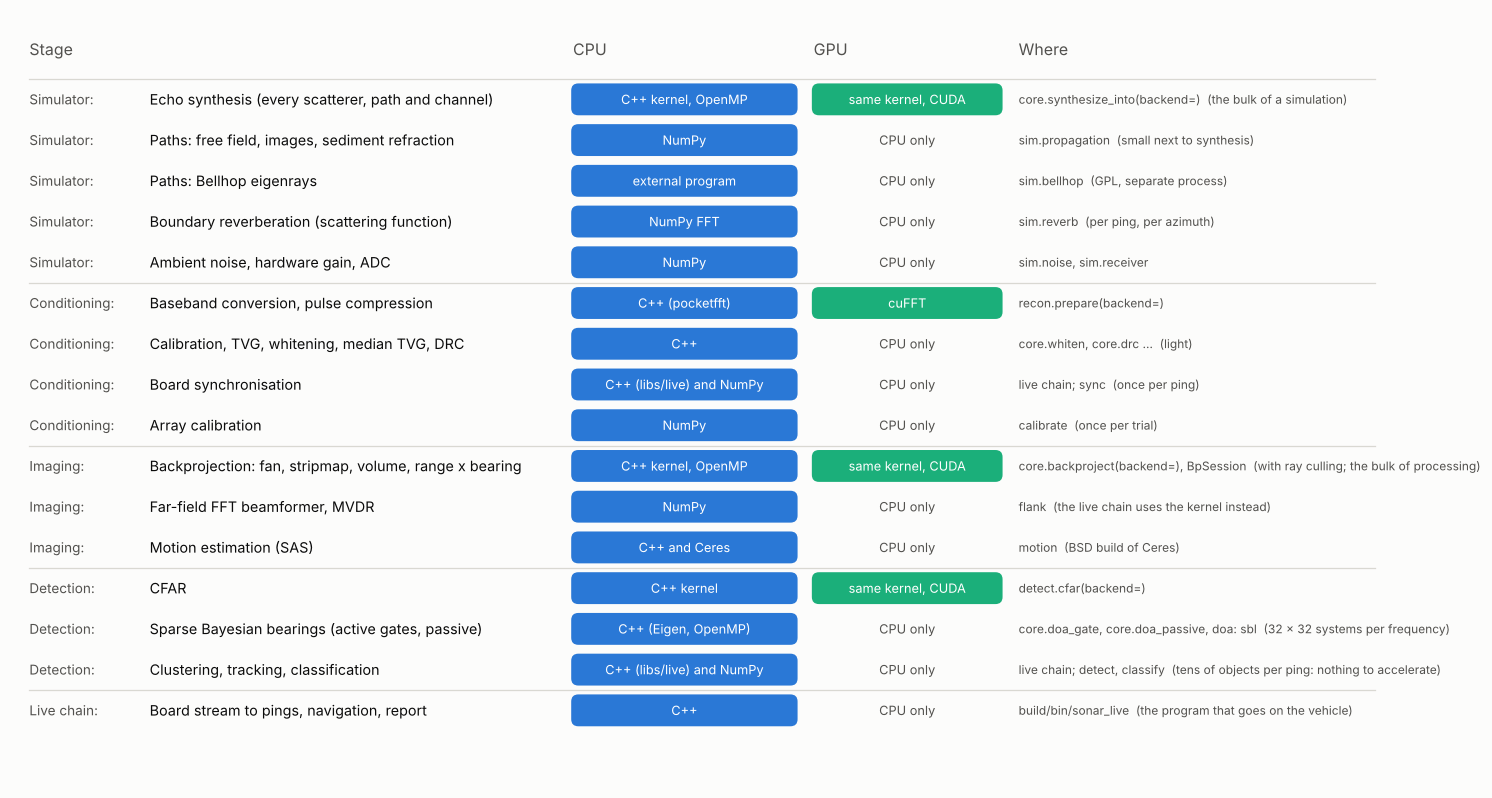
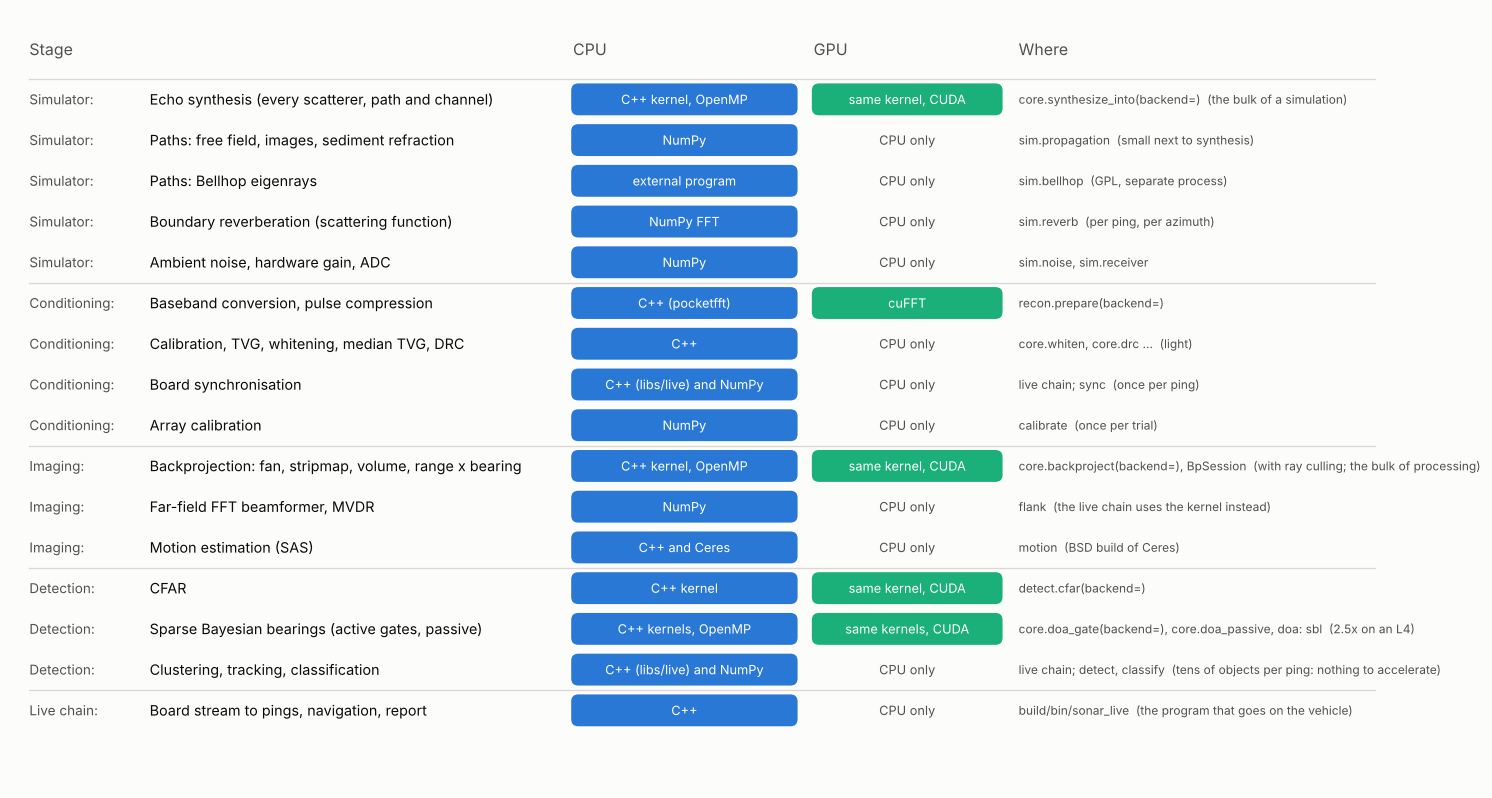
Results on an L4 and against truth; decisions D-59, D-60; time fields in the program's output paths; example service unit
Claude-Session: https://claude.ai/code/session_01QhYtHta4HR3WascrfVLbGv

Changed region(s): [[0.5241, 0.7519, 0.6783, 0.812], [0.7399, 0.782, 0.9558, 0.812], [0.4316, 0.782, 0.4933, 0.812]]

diff --git a/apps/sonar_live.cpp b/apps/sonar_live.cpp
@@ -28,6 +28,7 @@
 #include <mutex>
 #include <thread>
 #include <cstdlib>
+#include <ctime>
 #include <fstream>
 #include <iostream>
 #include <map>
@@ -42,6 +43,19 @@
 #include "sonar/live/udp_source.hpp"
 
 using namespace sonar;  // NOLINT(google-build-using-namespace)
+
+namespace {
+// strftime fields in an output path (%Y%m%d_%H%M%S), filled with the start time (UTC), so that
+// a restart never writes over an earlier run's recording.
+std::string stamped(const std::string& path) {
+  if (path.find('%') == std::string::npos) return path;
+  const std::time_t now = std::time(nullptr);
+  std::tm utc{};
+  gmtime_r(&now, &utc);
+  char out[1024];
+  return std::strftime(out, sizeof(out), path.c_str(), &utc) > 0 ? std::string(out) : path;
+}
+}  // namespace
 
 int main(int argc, char** argv) {
   try {
@@ -66,8 +80,8 @@ int main(int argc, char** argv) {
       else if (a == "--template") template_path = next();
       else if (a == "--listen") listen = true;
       else if (a == "--nav-port") nav_port = std::atoi(next().c_str());
-      else if (a == "--report") report_path = next();
-      else if (a == "--recording") recording_path = next();
+      else if (a == "--report") report_path = stamped(next());
+      else if (a == "--recording") recording_path = stamped(next());
       else if (a == "--report-udp") {
         const std::string hp = next();
         report_host = hp.substr(0, hp.find(':'));

diff --git a/tools/architecture_diagrams.py b/tools/architecture_diagrams.py
@@ -40,8 +40,8 @@ STAGES = [
     ("Imaging", "Far-field FFT beamformer, MVDR", "NumPy", None, "flank", "the live chain uses the kernel instead"),
     ("Imaging", "Motion estimation (SAS)", "C++ and Ceres", None, "motion", "BSD build of Ceres"),
     ("Detection", "CFAR", "C++ kernel", "same kernel, CUDA", "detect.cfar(backend=)", ""),
-    ("Detection", "Sparse Bayesian bearings (active gates, passive)", "C++ (Eigen, OpenMP)", None,
-     "core.doa_gate, core.doa_passive, doa: sbl", "32 x 32 systems per frequency"),
+    ("Detection", "Sparse Bayesian bearings (active gates, passive)", "C++ kernels, OpenMP", "same kernels, CUDA",
+     "core.doa_gate(backend=), core.doa_passive, doa: sbl", "2.5x on an L4"),
     ("Detection", "Clustering, tracking, classification", "C++ (libs/live) and NumPy", None, "live chain; detect, classify",
      "tens of objects per ping: nothing to accelerate"),
     ("Live chain", "Board stream to pings, navigation, report", "C++", None, "build/bin/sonar_live",

diff --git a/tests/python/test_live_cpp.py b/tests/python/test_live_cpp.py
@@ -1,6 +1,7 @@
 """The C++ live library against the Python stages it replaces, and the standalone program."""
 
 import json
+import time
 import pathlib
 import subprocess
 
@@ -285,8 +286,10 @@ def test_exported_template_and_command_run_the_program(pings, tmp_path):
         w.write(r)
     w.close()
     options = [c for c in command if "=" in c]
-    out = subprocess.run([str(EXE), "--replay", str(tmp_path / "pings.h5"), *options], capture_output=True, text=True, timeout=300)
+    out = subprocess.run([str(EXE), "--replay", str(tmp_path / "pings.h5"), "--recording", str(tmp_path / "run_%Y.h5"), *options],
+                         capture_output=True, text=True, timeout=300)
     assert out.returncode == 0, out.stderr
+    assert (tmp_path / f"run_{time.gmtime().tm_year}.h5").exists()          # strftime fields in output paths are filled
     with LiveChain(CHAIN) as chain:
         want = chain.run(copies(pings))
     got = [json.loads(line) for line in out.stdout.splitlines()]

diff --git a/tools/sonar_live.py b/tools/sonar_live.py
@@ -61,9 +61,9 @@ def export_template(cfg: dict, path: str) -> str:
     if (cfg.get("nav") or {}).get("port"):
         cmd += ["--nav-port", str(cfg["nav"]["port"])]
     if out.get("recording"):
-        cmd += ["--recording", time.strftime(out["recording"])]
+        cmd += ["--recording", out["recording"]]               # the program fills strftime fields itself
     if out.get("report"):
-        cmd += ["--report", time.strftime(out["report"])]
+        cmd += ["--report", out["report"]]
     if out.get("report_udp"):
         cmd += ["--report-udp", f"{out['report_udp'][0]}:{out['report_udp'][1]}"]
     cmd += [f"{k}={v:.10g}" if isinstance(v, float) else f"{k}={v}" for k, v in o.items()]

diff --git a/tests/python/test_architecture.py b/tests/python/test_architecture.py
@@ -17,7 +17,8 @@ _spec.loader.exec_module(arch)
 
 def test_stages_listed_with_a_gpu_implementation_take_a_backend():
     with_cuda = {stage for _, stage, _, cuda, _, _ in arch.STAGES if cuda}
-    assert len(with_cuda) == 4
+    assert len(with_cuda) == 5
+    assert "backend" in gs.core.doa_gate.__doc__                                   # sparse Bayesian bearings
     assert "backend" in inspect.signature(recon.prepare).parameters                # conditioning
     assert "backend" in inspect.signature(detect.cfar).parameters                  # CFAR
     assert "backend" in gs.core.backproject.__doc__ and "backend" in gs.core.synthesize_into.__doc__

diff --git a/docs/RESULTS.md b/docs/RESULTS.md
@@ -712,6 +712,9 @@ cores.
 | `popoto_12km`, six pings: detections per ping, track classes and ranges | identical in both chains (5, 7, 10, 11, 14, 7 detections; ten tracks) |
 | `popoto_12km`, processing per ping | C++ 0.42–0.51 s, Python 0.51–0.55 s (the kernels are shared; the ping interval is 19.9 s) |
 | The standalone program over UDP with navigation datagrams | all pings assembled, ownship position from navigation, mover and static tracks |
+| `sonar_live --listen`: an untriggered stream of real samples over UDP, two noise sources | every stretch recorded; both sources within 0.6° in at least 80% of frames |
+| The Holoscan application of C++ operators (`sonar_live_holoscan`, Holoscan 4.6.0, on an L4) against the standalone program on a replay | reports identical field for field (processing time aside); the recorder's copy equals the raw input |
+| The Holoscan application fed by the emulated board over UDP with navigation | all pings, ownship position from navigation, mover and static tracks |
 
 ## Bearings by sparse Bayesian learning
 
@@ -731,14 +734,47 @@ Simulated echoes and simulated noise sources; no real data.
 | Time for one active range gate (two-echo ping, 0.25° grid over ±40°) | 45 ms |
 | Time for one passive frame of 208 ms of data (0.5° grid) | about 170 ms |
 | `popoto_12km`, `doa: sbl`: bearings of the last ping's detections on the ship (0.0° to 0.54° of bearing wide) | spread 0.32°, against 1.09° from the map |
-| `popoto_12km`, `doa: sbl`: processing per ping | 1.6–3.7 s (up to 11 gates a ping; many arrivals per gate keep many bearings alive, so a gate costs several times the two-echo case); 3–7.7 s before the iteration cap was lowered from 60 to 20, with bearings unchanged to 0.02° |
+| `popoto_12km`, `doa: sbl`: processing per ping, four CPU cores here | 0.84–1.57 s with the kernels of `sbl_kernel.hpp` (one triangular solve per bearing); 1.7–3.9 s with the Eigen reference (a full solve), same bearings to 0.001°; 3–7.7 s before the iteration cap was lowered from 60 to 20, bearings unchanged to 0.02° |
+| The kernels against the Eigen reference (`test_kernel_path_gives_the_eigen_paths_answer`) | same iteration count, spectrum to 1e-5, peaks to 1e-6°, on active gates and multi-snapshot passive frames |
+
+### On a GPU (L4, Hugging Face Job, CUDA 12.6)
+
+Source: `tools/live_benchmark.py` on the six `popoto_12km` pings; `tests/python/test_doa.py`.
+The host rows are that machine's CPU (faster than the four cores used above).
+
+| Chain per ping (median of pings 2–6) | Host | CUDA |
+| --- | --- | --- |
+| `doa: map` | 0.303 s | 0.018 s |
+| `doa: sbl` | 1.21 s | 0.48 s |
+
+Detections of the last ping agree between host and CUDA in both modes (range within 0.5 m,
+bearing within 0.02°), and the CUDA solver gives the host kernels' spectrum, peaks and
+iteration count on an active gate and on passive frames. One gate on the device takes
+69 ms including building its frame. SBL gains 2.5 times, not the map's 17: each
+iteration is three small kernel launches plus host work (the noise estimate, the choice
+of bearings in play), and one frequency's 32 × 32 factorisation is serial in one thread.
+
+### Track classes against the simulated truth (`popoto_12km`, last ping)
+
+Source: `tools/popoto_truth_check.py`. Truth: the ship's direct echo is at 12,000 m; a
+track within 15 m of that should be a mover, a track further out is a later bottom- and
+surface-bounce arrival and should be multipath. The ship spans −6 to +114 m along track.
+
+| | `doa: map` | `doa: sbl` |
+| --- | --- | --- |
+| Tracks | 10 | 9 |
+| Class right | 8 | 7 |
+| What is wrong | one direct-range track called static (a young track, −1.6 m/s); one late arrival left "uncertain" and used as the parent of four others | two tracks 9 and 14 m behind the direct echo called multipath of it (they may be the second- and third-order bounces, 7 and 15 m of excess path by geometry: the 15 m line is not sharp) |
+| Multipath tracks attached to a direct-range track | 1 of 5 | 8 of 8 |
+| Tracks whose along-track position is on the ship | 6 of 10 | 9 of 9 (one 1.3 m past the bow) |
+
+So neither mode is wrong about what is moving; SBL places the arrivals on the ship in
+bearing and gives one source with its echoes, where the map gives three movers and a
+second group hanging off a mis-estimated track.
 
 Limits: SBL does not separate arrivals in range, only in bearing at a range the detector
 found; a line array's bearing is a cone, so a bottom-bounce arrival at a steep angle
-appears at a shifted bearing; with `doa: sbl` the classifier's choice of which track is
-the source and which its multipath differed from the map's on `popoto_12km` (one mover and
-eight multipath tracks against three movers), and neither has been compared with truth
-beyond the ship's speed.
+appears at a shifted bearing.
 
 ## Track classification
 

diff --git a/docs/ARCHITECTURE.md b/docs/ARCHITECTURE.md
@@ -76,12 +76,12 @@ Diagrams are drawn by `tools/architecture_diagrams.py`.
   (`flank.backprojection_map`, the live chain's default), not the NumPy far-field
   beamformer: same detections, 11 times faster on a CPU (0.55 s against 6.1 s per ping at
   32 channels and 50,000 samples), and it runs on a GPU unchanged.
+- **Sparse Bayesian bearings** run as three kernels (`libs/live/include/sonar/live/sbl_kernel.hpp`)
+  on CPU threads or on the device, selected by the chain's `backend`. On an L4 the whole
+  chain takes 18 ms a ping with bearings from the map and 0.48 s with SBL (`RESULTS.md`).
 - **Not on a GPU, and why.** Clustering, tracking and classification handle tens of
   objects per ping. MVDR, whitening, median TVG, DRC, board synchronisation and motion
-  estimation are CPU code; none is the bottleneck of a chain that uses them. Sparse
-  Bayesian bearings are C++ on the CPU (Eigen, one thread per frequency): the systems are
-  32 × 32 and a range gate takes tens of milliseconds, so a CUDA build has not been
-  written. Reverberation generation is NumPy FFTs and is the largest CPU-only cost in the
+  estimation are CPU code; none is the bottleneck of a chain that uses them. Reverberation generation is NumPy FFTs and is the largest CPU-only cost in the
   simulator.
 - The CPU path is complete: everything runs without a GPU and gives the same results.
   `RESULTS.md` has the GPU timings and the comparison.
@@ -103,8 +103,9 @@ The long-range array's live chain exists twice, on purpose.
 
 Everywhere else the split is: kernels and file format in C++ (CUDA where listed above),
 the simulator's scene and propagation, SAS motion estimation glue, calibration and all
-tools in Python. Holoscan operators are Python wrappers (`holoscan_ops.py`); C++
-operators have not been written, because Holoscan cannot be built in this environment.
+tools in Python. Holoscan operators exist in both: Python wrappers of the stages
+(`holoscan_ops.py`) and C++ operators around the live library (`libs/holoscan_ops`,
+program `build/bin/sonar_live_holoscan`), built and run on a GPU machine with Holoscan 4.6.
 
 ### Bearings: the map, or sparse Bayesian learning
 
@@ -132,6 +133,7 @@ real array's channel errors.
 | --- | --- |
 | `libs/core`, `libs/dsp`, `libs/recon`, `libs/sim`, `libs/detect`, `libs/io` | C++20 / CUDA: record, conditioning, backprojection, synthesis, CFAR, container file |
 | `libs/live`, `apps/sonar_live.cpp` | C++20: the long-range array's live chain and the standalone program `build/bin/sonar_live` |
+| `libs/holoscan_ops`, `apps/sonar_live_holoscan.cpp` | the same chain as C++ Holoscan operators and an application (`-DSONAR_BUILD_HOLOSCAN=ON`) |
 | `python/gpusonar/` | bindings and everything else: `sim/`, `sources/`, `recon/`, `pipeline.py`, `live.py`, `taps.py`, `detect.py`, `classify.py`, `flank.py`, `motion.py`, `sync.py`, `calibrate.py`, `simcal.py`, `holoscan_ops.py` |
 | `configs/` | `sonars/`, `scenarios/`, `chains/`, `deploy/` |
 | `tools/` | `test.sh`, `gallery.py`, `sonar_live.py`, `inspect_tap.py`, `calibrate_sim.py`, `design_report.py`, `scenario_diagrams.py`, `architecture_diagrams.py`, `popoto_range_study.py`, `benchmark.py`, `gpu_job.sh` |

diff --git a/docs/DECISIONS.md b/docs/DECISIONS.md
@@ -510,8 +510,11 @@ re-estimated from the residual.
   a coarse grid then a fine one around what survived, peaks closer than 0.2 beamwidths
   folded together, and SBL skipped on gates whose conventional spectrum has no peak 8 dB
   over its median. All are options (`doa.hpp`, `chain.hpp`).
-- Host only (Eigen, MPL2). A CUDA build would batch 32 × 32 solves; not written, because
-  a gate takes tens of milliseconds against a ping interval of many seconds.
+- The iteration is three kernels written once for the host and CUDA (`sbl_kernel.hpp`):
+  the model covariance per frequency, its Cholesky factor, and one triangular solve per
+  bearing in play. On the host this is 2.3 times faster than the first version (Eigen, a
+  full solve per bearing), which is kept as a reference the kernels are tested against.
+  The choice of bearings in play and the noise estimate stay on the host.
 
 ### D-58 The live chain is a C++ library with a standalone program
 `libs/live` holds every stage after the kernels: stream assembly, navigation, board
@@ -521,3 +524,22 @@ taps, the simulator and the tools hang off it, and because two implementations c
 tests catch errors in both. The deployment file stays the one place settings live:
 `tools/sonar_live.py --export-template` turns it into the C++ program's template record
 and command line. A YAML reader in C++ would have added a dependency for the same result.
+
+### D-59 Holoscan operators in C++ are shells around the live library
+`libs/holoscan_ops` has six operators (replay source, UDP source, recorder, chain, passive
+bearings, report sink) and `apps/sonar_live_holoscan.cpp` composes them. Each calls the
+same class the standalone program uses, and the tests require the two programs' reports
+to be identical. Messages are shared pointers to ping records and to report text, passed
+in process; nothing is converted to tensors, because no operator of the SDK needs to see
+inside a ping. The chain is one operator, not one per stage: the stages share a tracker
+and state, and splitting them would add copies without adding anything to schedule.
+Built against Holoscan 4.6.0 (the C++ package from NVIDIA's apt repository, which needs
+CMake 3.30 or newer); the Python wheel has no headers.
+
+### D-60 Listening is a second way to cut the same stream
+The boards send one continuous stream of blocks either way. For active pings the
+assembler cuts a window after each transmit mark; with `--listen` it cuts fixed stretches,
+each long enough for one passive frame, and ignores transmit marks. A gap discards the
+stretch it falls in. Stretches are recorded as ordinary records (start time 0, the time
+of the first sample in the transmit time field), so a listening run replays through
+`--passive` unchanged.

diff --git a/docs/DEPLOYMENT.md b/docs/DEPLOYMENT.md
@@ -103,18 +103,38 @@ build/bin/sonar_live --passive recording.h5 --band 4000 6000 n_fft=256 hop=128 n
 One JSON line per frame: time, the bearings of the sources found, their powers and the
 noise level, in the units of the samples squared. Options: `passive_method=conventional`
 for the plain beamformer's bearing-time record, `sbl_min_snr_db`, `sbl_max_sources`, the
-bearing grid. This is a batch tool over a recording; a continuous passive stream from the
-boards (no transmit to cut pings on) is not wired into the UDP source.
+bearing grid.
+
+From the boards, without transmitting:
+
+```bash
+build/bin/sonar_live --udp 5700 --template template.h5 --listen --band 4000 6000 \
+    --recording listen.h5 --report listen.jsonl n_fft=4096 hop=2048 n_average=12
+```
+
+The stream is cut into stretches of one frame each (`n_fft + (n_average − 1) × hop`
+samples), recorded, and solved as they complete; a lost block discards its stretch.
+
+## As a Holoscan application
+
+```bash
+cmake -S . -B build -DSONAR_ENABLE_CUDA=ON -DSONAR_BUILD_HOLOSCAN=ON     # needs the Holoscan C++ package, CMake >= 3.30
+build/bin/sonar_live_holoscan --udp 5700 --template template.h5 --nav-port 5702 --report out.jsonl backend=cuda
+```
+
+Same flags, options and reports as `build/bin/sonar_live`. The operators are in
+`libs/holoscan_ops` (UDP or replay source → recorder → chain or passive bearings → report
+sink); `tools/gpu_job.sh` with `GPUSONAR_HOLOSCAN_CPP=1` shows the install on a clean
+Ubuntu 24.04 CUDA image. Run and compared with the standalone program on an L4
+(`RESULTS.md`).
 
 ## What is not there yet
 
-- Holoscan operators in C++. The Python wrappers exist (`holoscan_ops.py`); the C++ chain
-  is one call per ping (`LiveChain::process`) and is meant to be wrapped as one operator.
-- Sparse Bayesian bearings on a GPU (CPU only; see `ARCHITECTURE.md`).
+- The UDP source operator behind Holoscan Sensor Bridge's receiver, in place of a plain socket.
 
 - The two adapters named above (board forwarder, navigation).
-- A service wrapper. A systemd unit that runs the one command and restarts it is enough;
-  none is shipped because the vehicle's operating system is not known.
+- A service wrapper beyond the example unit `configs/deploy/sonar_live.service` (paths and
+  user are placeholders; the vehicle's operating system is not known).
 - Range correction for paths that arrive by the bottom (in deep water the simulated ship
   shows 300 m long in range, `SCENARIOS.md`).
 - Telling a moored object from a rock, or a ship from a whale: the classifier uses the
